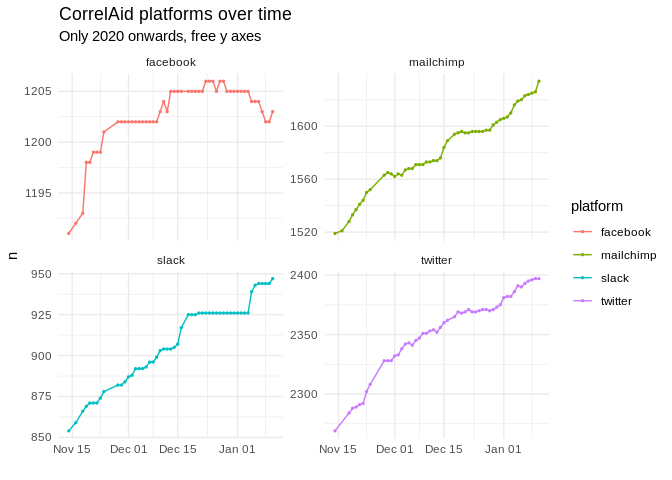
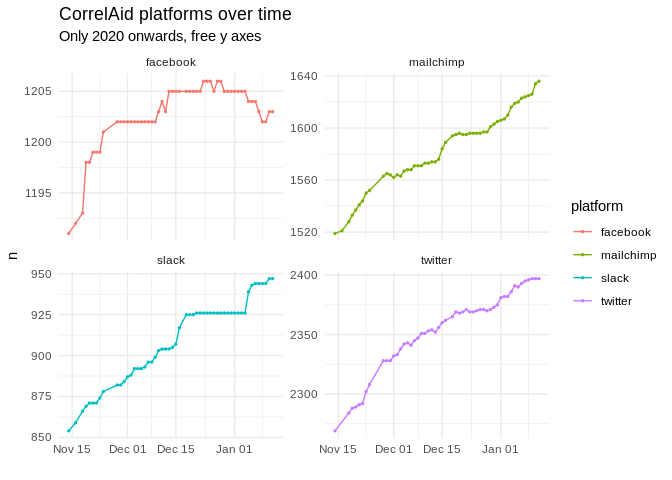
🤖 CRON - update daily data

diff --git a/README.md b/README.md
@@ -25,8 +25,8 @@ count and general network data on a daily basis using
 
 ### Plots
 
-*last updated*: 2021-01-11
-23:50:12
+*last updated*: 2021-01-12
+23:50:13
 
 ![](README_files/figure-gfm/plot-alltime-1.png)<!-- -->
 
